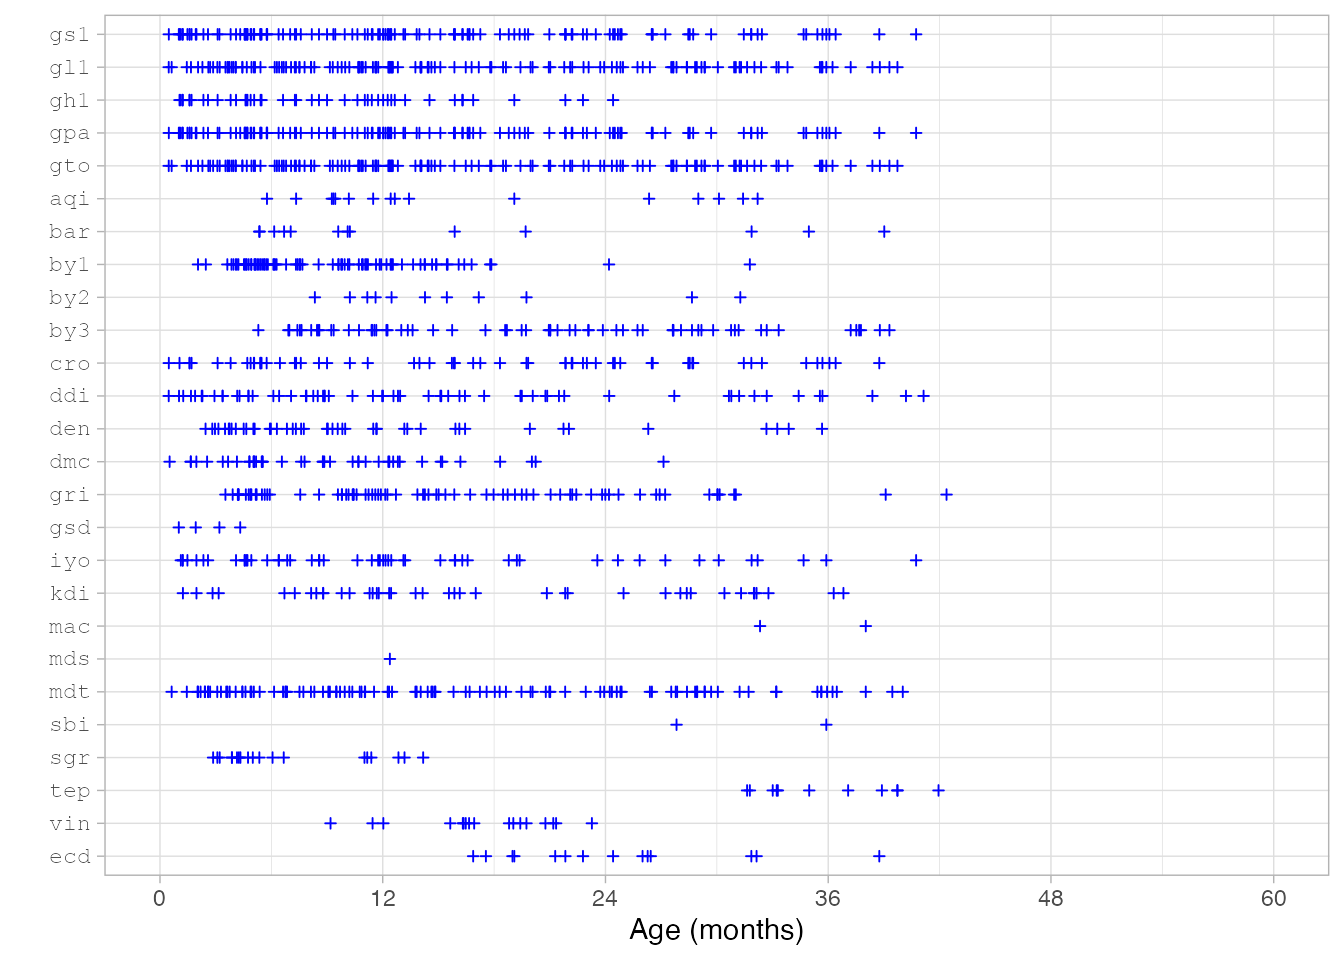
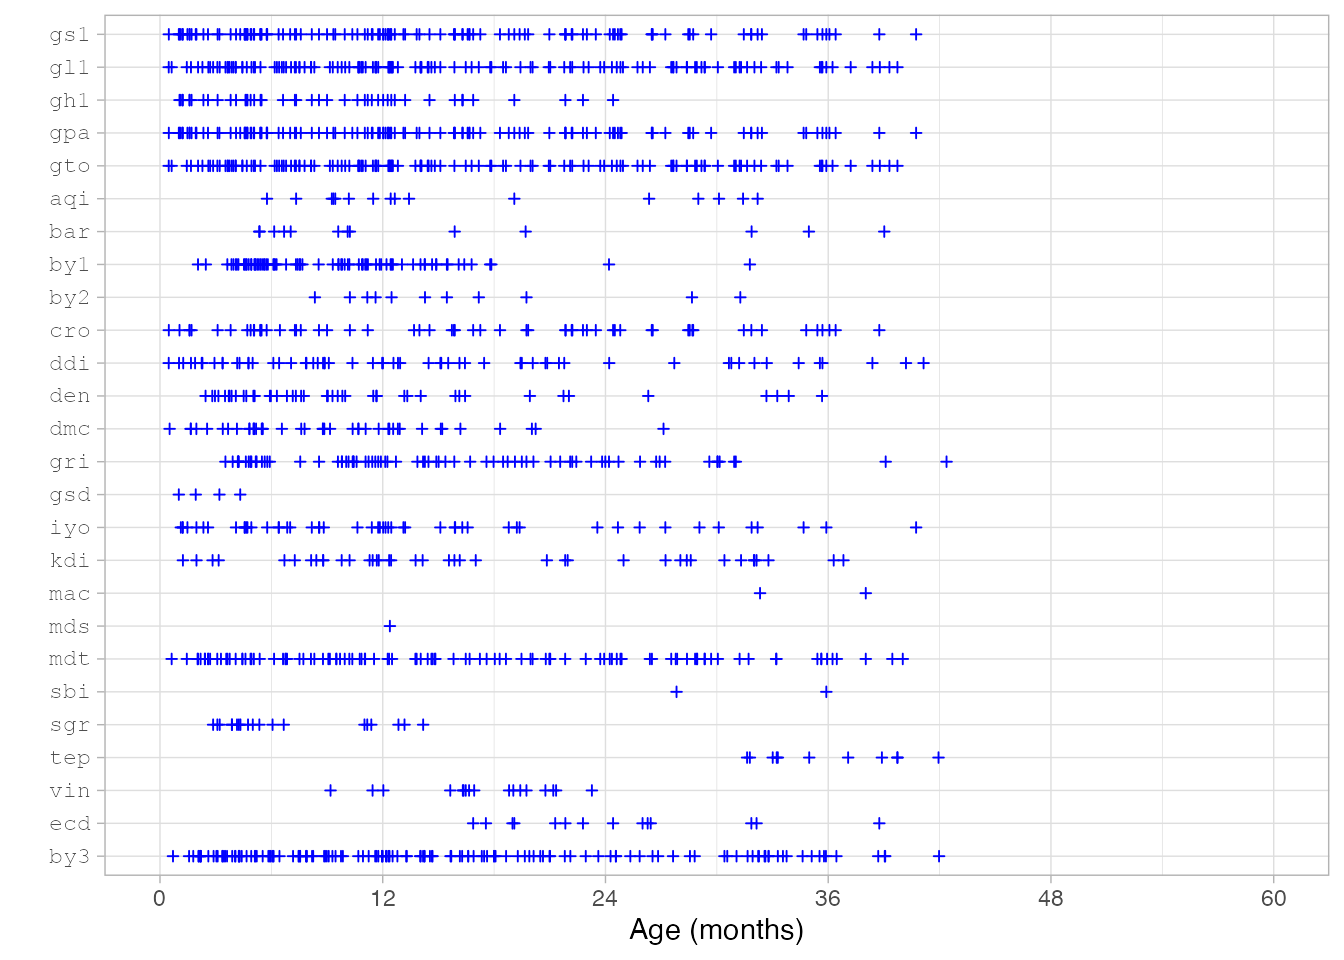
Update site

diff --git a/docs/articles/scoring_GSED.html b/docs/articles/scoring_GSED.html
@@ -32,7 +32,7 @@
       </button>
       <span class="navbar-brand">
         <a class="navbar-link" href="../index.html">dscore</a>
-        <span class="version label label-default" data-toggle="tooltip" data-placement="bottom" title="">1.10.7</span>
+        <span class="version label label-default" data-toggle="tooltip" data-placement="bottom" title="">1.10.8</span>
       </span>
     </div>
 
@@ -770,11 +770,11 @@ that identify each item.</p>
 <code class="sourceCode R"><span><span class="va">results</span> <span class="op">&lt;-</span> <span class="fu"><a href="../reference/dscore.html">dscore</a></span><span class="op">(</span><span class="va">sf</span>, xname <span class="op">=</span> <span class="st">"agedays"</span>, xunit <span class="op">=</span> <span class="st">"days"</span><span class="op">)</span></span>
 <span><span class="fu"><a href="https://rdrr.io/r/utils/head.html" class="external-link">head</a></span><span class="op">(</span><span class="va">results</span><span class="op">)</span></span></code></pre></div>
 <pre><code><span><span class="co">##        a  n      p     d      sem    daz</span></span>
-<span><span class="co">## 1 2.2204 27 0.7407 67.28 1.872055 -0.148</span></span>
-<span><span class="co">## 2 2.4586 37 0.6757 69.37 1.638430 -0.269</span></span>
+<span><span class="co">## 1 2.2204 29 0.7586 67.53 1.846355 -0.081</span></span>
+<span><span class="co">## 2 2.4586 39 0.6923 69.51 1.620815 -0.232</span></span>
 <span><span class="co">## 3 0.5558 50 0.6600 39.05 1.710319  1.083</span></span>
 <span><span class="co">## 4 2.6448 36 0.7500 74.68 1.656658  0.681</span></span>
-<span><span class="co">## 5 2.1081 48 0.5000 66.10 1.412068 -0.127</span></span>
+<span><span class="co">## 5 2.1081 50 0.5000 65.80 1.389134 -0.207</span></span>
 <span><span class="co">## 6 0.8378 50 0.7000 42.03 1.768821 -0.883</span></span></code></pre>
 <p>The table below provides the interpretation of the output:</p>
 <table class="table">

diff --git a/docs/reference/builtin_itembank.html b/docs/reference/builtin_itembank.html
@@ -20,7 +20,7 @@ are a subset of all items as collected in builtin_itemtable."><!-- mathjax --><s
       </button>
       <span class="navbar-brand">
         <a class="navbar-link" href="../index.html">dscore</a>
-        <span class="version label label-default" data-toggle="tooltip" data-placement="bottom" title="">1.10.7</span>
+        <span class="version label label-default" data-toggle="tooltip" data-placement="bottom" title="">1.10.8</span>
       </span>
     </div>
 
@@ -113,7 +113,7 @@ defining correct order for <code>gto</code></p></li>
 <span class="r-out co"><span class="r-pr">#&gt;</span>   bar     0     0   15       13       13       13</span>
 <span class="r-out co"><span class="r-pr">#&gt;</span>   by1     0     0   85       76       76       76</span>
 <span class="r-out co"><span class="r-pr">#&gt;</span>   by2     0     0   16       16       16       16</span>
-<span class="r-out co"><span class="r-pr">#&gt;</span>   by3     0     0  105       67       67       67</span>
+<span class="r-out co"><span class="r-pr">#&gt;</span>   by3     0     0  105       67      172      172</span>
 <span class="r-out co"><span class="r-pr">#&gt;</span>   cro     0     0    0       62       64       64</span>
 <span class="r-out co"><span class="r-pr">#&gt;</span>   ddi     0    76   65       64       64       64</span>
 <span class="r-out co"><span class="r-pr">#&gt;</span>   den     0     0   67       50       50       50</span>

diff --git a/docs/index.html b/docs/index.html
@@ -33,7 +33,7 @@
       </button>
       <span class="navbar-brand">
         <a class="navbar-link" href="index.html">dscore</a>
-        <span class="version label label-default" data-toggle="tooltip" data-placement="bottom" title="">1.10.7</span>
+        <span class="version label label-default" data-toggle="tooltip" data-placement="bottom" title="">1.10.8</span>
       </span>
     </div>
 
@@ -229,7 +229,7 @@ World Health Organization (WHO). 2023. “<span class="nocase">Global Scales for
 <li><a href="https://lifecycle.r-lib.org/articles/stages.html#stable" class="external-link"><img src="https://img.shields.io/badge/lifecycle-stable-brightgreen.svg" alt="Lifecycle: stable"></a></li>
 <li><a href="https://CRAN.R-project.org/package=dscore" class="external-link"><img src="https://www.r-pkg.org/badges/version/dscore" alt="CRAN status"></a></li>
 <li><a href="https://cran.r-project.org/package=dscore" class="external-link"><img src="http://cranlogs.r-pkg.org/badges/dscore"></a></li>
-<li><a href="https://github.com/d-score/dscore" class="external-link"><img src="https://img.shields.io/badge/github%20version-1.10.7-orange.svg"></a></li>
+<li><a href="https://github.com/d-score/dscore" class="external-link"><img src="https://img.shields.io/badge/github%20version-1.10.8-orange.svg"></a></li>
 </ul>
 </div>
 

diff --git a/docs/news/index.html b/docs/news/index.html
@@ -17,7 +17,7 @@
       </button>
       <span class="navbar-brand">
         <a class="navbar-link" href="../index.html">dscore</a>
-        <span class="version label label-default" data-toggle="tooltip" data-placement="bottom" title="">1.10.7</span>
+        <span class="version label label-default" data-toggle="tooltip" data-placement="bottom" title="">1.10.8</span>
       </span>
     </div>
 
@@ -66,6 +66,10 @@
       <small>Source: <a href="https://github.com/d-score/dscore/blob/HEAD/NEWS.md" class="external-link"><code>NEWS.md</code></a></small>
     </div>
 
+    <div class="section level2">
+<h2 class="page-header" data-toc-text="1.10.8" id="dscore-1108">dscore 1.10.8<a class="anchor" aria-label="anchor" href="#dscore-1108"></a></h2>
+<ul><li>Replaces the <code>by3</code> key in <code>gsed2212</code> and <code>gsed2406</code>. The replacement matches many more by3 items (from 67 to 172), especially for younger children, and raises the D-score estimate for by3 by approximately 2.6 D.</li>
+</ul></div>
     <div class="section level2">
 <h2 class="page-header" data-toc-text="1.10.7" id="dscore-1107">dscore 1.10.7<a class="anchor" aria-label="anchor" href="#dscore-1107"></a></h2>
 <ul><li>Correct description of A45 Stand on 1 foot &lt; 5 seconds</li>

diff --git a/docs/articles/getting_started.html b/docs/articles/getting_started.html
@@ -32,7 +32,7 @@
       </button>
       <span class="navbar-brand">
         <a class="navbar-link" href="../index.html">dscore</a>
-        <span class="version label label-default" data-toggle="tooltip" data-placement="bottom" title="">1.10.7</span>
+        <span class="version label label-default" data-toggle="tooltip" data-placement="bottom" title="">1.10.8</span>
       </span>
     </div>
 
@@ -257,7 +257,7 @@ instrument.</p>
 <td align="right"></td>
 <td align="right">105</td>
 <td align="right">67</td>
-<td align="right">67</td>
+<td align="right">172</td>
 <td align="right"></td>
 </tr>
 <tr class="odd">

diff --git a/docs/reference/builtin_itemtable.html b/docs/reference/builtin_itemtable.html
@@ -18,7 +18,7 @@ of items for measuring early child development."><!-- mathjax --><script src="ht
       </button>
       <span class="navbar-brand">
         <a class="navbar-link" href="../index.html">dscore</a>
-        <span class="version label label-default" data-toggle="tooltip" data-placement="bottom" title="">1.10.7</span>
+        <span class="version label label-default" data-toggle="tooltip" data-placement="bottom" title="">1.10.8</span>
       </span>
     </div>
 

diff --git a/docs/reference/builtin_keys.html b/docs/reference/builtin_keys.html
@@ -19,7 +19,7 @@ D-scores can only be compared when calculated with the same key."><!-- mathjax -
       </button>
       <span class="navbar-brand">
         <a class="navbar-link" href="../index.html">dscore</a>
-        <span class="version label label-default" data-toggle="tooltip" data-placement="bottom" title="">1.10.7</span>
+        <span class="version label label-default" data-toggle="tooltip" data-placement="bottom" title="">1.10.8</span>
       </span>
     </div>
 

diff --git a/docs/reference/builtin_references.html b/docs/reference/builtin_references.html
@@ -23,7 +23,7 @@ known as the Development-for-Age Z-score (DAZ)."><!-- mathjax --><script src="ht
       </button>
       <span class="navbar-brand">
         <a class="navbar-link" href="../index.html">dscore</a>
-        <span class="version label label-default" data-toggle="tooltip" data-placement="bottom" title="">1.10.7</span>
+        <span class="version label label-default" data-toggle="tooltip" data-placement="bottom" title="">1.10.8</span>
       </span>
     </div>
 

diff --git a/docs/reference/builtin_translate.html b/docs/reference/builtin_translate.html
@@ -18,7 +18,7 @@ translating among sets of item names into each other."><!-- mathjax --><script s
       </button>
       <span class="navbar-brand">
         <a class="navbar-link" href="../index.html">dscore</a>
-        <span class="version label label-default" data-toggle="tooltip" data-placement="bottom" title="">1.10.7</span>
+        <span class="version label label-default" data-toggle="tooltip" data-placement="bottom" title="">1.10.8</span>
       </span>
     </div>
 

diff --git a/docs/reference/calculate_posterior.html b/docs/reference/calculate_posterior.html
@@ -18,7 +18,7 @@ dynamic EAP, the procedure ignores the score of item j."><!-- mathjax --><script
       </button>
       <span class="navbar-brand">
         <a class="navbar-link" href="../index.html">dscore</a>
-        <span class="version label label-default" data-toggle="tooltip" data-placement="bottom" title="">1.10.7</span>
+        <span class="version label label-default" data-toggle="tooltip" data-placement="bottom" title="">1.10.8</span>
       </span>
     </div>
 

diff --git a/docs/reference/count_mu.html b/docs/reference/count_mu.html
@@ -18,7 +18,7 @@ reference for a given key."><!-- mathjax --><script src="https://cdnjs.cloudflar
       </button>
       <span class="navbar-brand">
         <a class="navbar-link" href="../index.html">dscore</a>
-        <span class="version label label-default" data-toggle="tooltip" data-placement="bottom" title="">1.10.7</span>
+        <span class="version label label-default" data-toggle="tooltip" data-placement="bottom" title="">1.10.8</span>
       </span>
     </div>
 

diff --git a/docs/reference/count_mu_dutch.html b/docs/reference/count_mu_dutch.html
@@ -19,7 +19,7 @@ to set prior mean under key "dutch".'><!-- mathjax --><script src="https://cdnjs
       </button>
       <span class="navbar-brand">
         <a class="navbar-link" href="../index.html">dscore</a>
-        <span class="version label label-default" data-toggle="tooltip" data-placement="bottom" title="">1.10.7</span>
+        <span class="version label label-default" data-toggle="tooltip" data-placement="bottom" title="">1.10.8</span>
       </span>
     </div>
 
